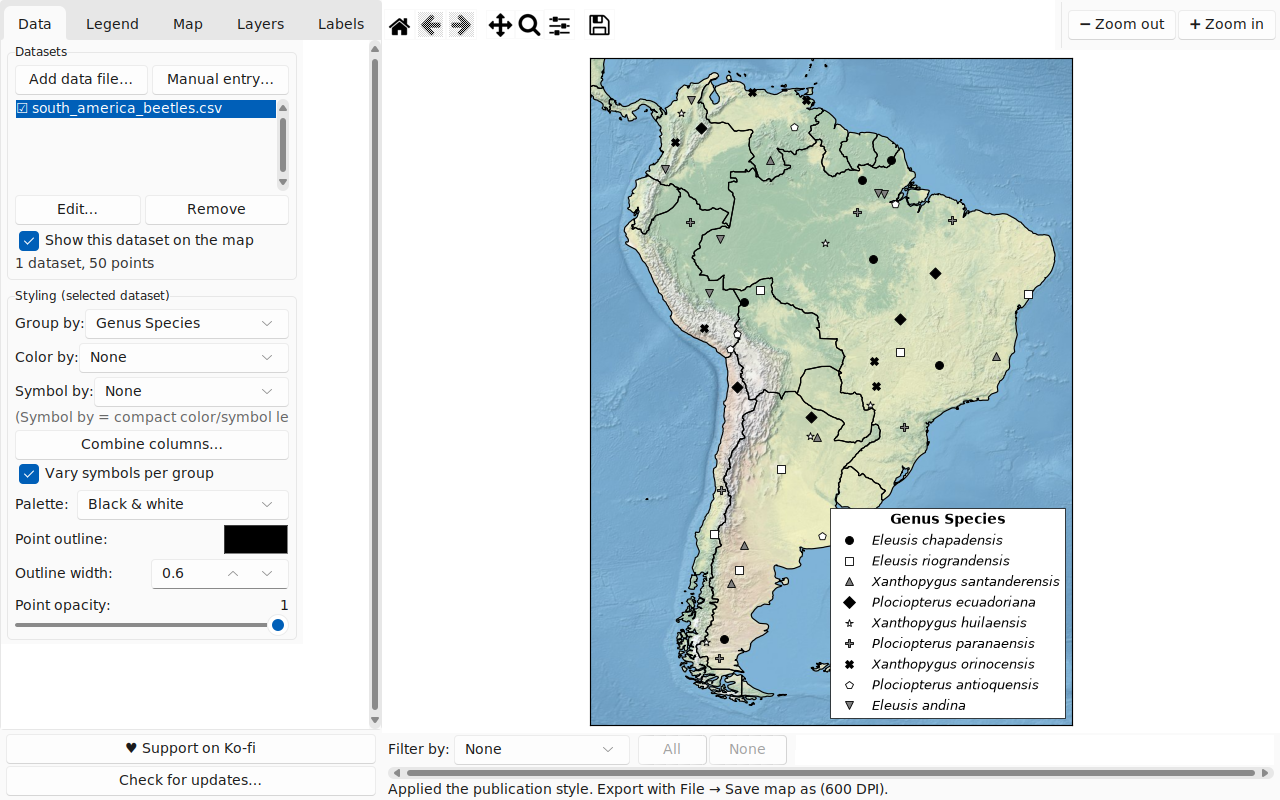
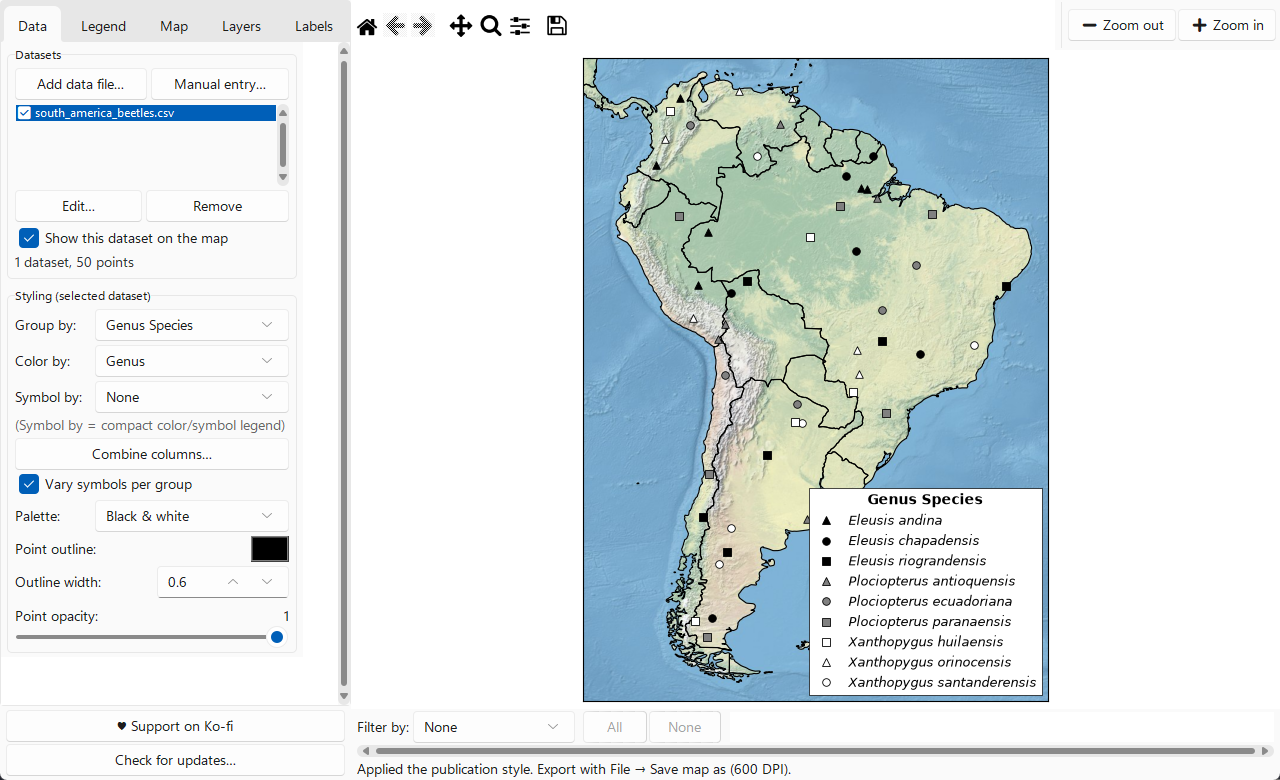
Sort the publication legend and shade it by genus
Three shades cannot tell nine species apart on their own, and with the
legend in data order the shapes came out in no pattern. The publication
style now sorts the legend A-Z and, when a dataset has no Color by, shades
it by the name column its group-by column is built on (Genus for "Genus
Species"). Each genus becomes a block of rows in one shade with its shapes
restarting, which is what a journal legend reads best as.

A manual legend order and a Color by the user already chose are kept. The
column finding and the settings live in layout.py so they are testable
without Tk. The README publication images are regenerated to match.

diff --git a/tests/test_layout.py b/tests/test_layout.py
@@ -6,8 +6,10 @@ from __future__ import annotations
 import json
 
 from pymappr import projects
-from pymappr.data_loader import build_manual_dataset, load_csv
+from pymappr.data_loader import (PointDataset, build_manual_dataset,
+                                 combine_name_columns, load_csv)
 from pymappr.layout import (column_key, editor_rows, layout_points,
+                            organise_publication_legend, parent_name_column,
                             with_default_title)
 from pymappr.legend import LegendOptions
 from pymappr.projects import DatasetEntry
@@ -148,3 +150,95 @@ def test_column_key_maps_labels_to_frame_columns():
     assert column_key(entry, "Species") == "name2"
     assert column_key(entry, "None") is None
     assert column_key(entry, "") is None
+
+
+def combined_beetles(**kwargs) -> DatasetEntry:
+    """The beetles with a "Genus Species" column, grouped by it."""
+    entry = beetles()
+    entry.dataset, label = combine_name_columns(entry.dataset,
+                                                ["Genus", "Species"])
+    entry.group_by = label
+    for name, value in kwargs.items():
+        setattr(entry, name, value)
+    return entry
+
+
+def test_the_parent_column_of_a_combined_name_is_its_first_part():
+    entry = combined_beetles()
+    assert parent_name_column(entry.dataset, "Genus Species") == "Genus"
+
+
+def test_a_column_that_does_not_prefix_the_names_is_not_a_parent():
+    # Species has more values than Genus and never leads the full name.
+    entry = combined_beetles()
+    assert parent_name_column(entry.dataset, "Species") == ""
+
+
+def test_a_plain_column_has_no_parent():
+    entry = beetles()
+    assert parent_name_column(entry.dataset, "Genus") == ""
+    assert parent_name_column(entry.dataset, "") == ""
+    assert parent_name_column(entry.dataset, "None") == ""
+    assert parent_name_column(entry.dataset, "No such column") == ""
+
+
+def test_a_blank_part_disqualifies_the_column():
+    # A blank genus is a prefix of everything, which says nothing about a
+    # parent, so a column with a gap is not offered.
+    entry = combined_beetles()
+    frame = entry.dataset.frame.copy()
+    frame.loc[frame.index[0], "name1"] = ""
+    entry.dataset = PointDataset(frame=frame, source_path="")
+    entry.dataset.frame.attrs.update(name_labels=["Genus", "Species",
+                                                  "Genus Species"])
+    assert parent_name_column(entry.dataset, "Genus Species") == ""
+
+
+def test_a_parent_must_have_fewer_values_than_the_group_column():
+    # Genus prefixes "Genus Species", but a column identical to the group
+    # column does not: it has just as many values.
+    entry = combined_beetles()
+    frame = entry.dataset.frame.copy()
+    frame["name4"] = frame["name3"]
+    frame.attrs["name_labels"] = ["Genus", "Species", "Genus Species", "Copy"]
+    dataset = PointDataset(frame=frame, source_path="")
+    assert parent_name_column(dataset, "Genus Species") == "Genus"
+
+
+def test_publication_legend_sorts_and_shades_by_genus():
+    entry = combined_beetles()
+    options = organise_publication_legend([entry], LegendOptions())
+    assert entry.color_by == "Genus"
+    assert options.order == "az"
+
+
+def test_publication_legend_keeps_a_manual_order_and_a_chosen_colour():
+    entry = combined_beetles(color_by="Species")
+    options = organise_publication_legend(
+        [entry], LegendOptions(order="manual"))
+    assert entry.color_by == "Species"
+    assert options.order == "manual"
+
+
+def test_publication_legend_leaves_datasets_with_no_parent_alone():
+    entry = beetles()
+    options = organise_publication_legend([entry], LegendOptions())
+    assert entry.color_by == ""
+    assert options.order == "az"
+
+
+def test_publication_legend_blocks_the_rows_by_genus():
+    # The two settings together: A-Z rows form one block per genus, each
+    # with its own shade and the shapes restarting.
+    entry = combined_beetles()
+    options = organise_publication_legend([entry], LegendOptions())
+    layout = layout_points([entry], options, ["#000000", "#808080", "#ffffff"])
+    assert layout.row_order == sorted(layout.row_order)
+    by_genus: dict[str, list] = {}
+    for label, style, _rows in layout.groups:
+        by_genus.setdefault(label.split()[0], []).append(style)
+    assert len(by_genus) == 3
+    for styles in by_genus.values():
+        assert len({style.color for style in styles}) == 1
+        assert styles[0].marker == "Circle"
+    assert len({styles[0].color for styles in by_genus.values()}) == 3

diff --git a/pymappr/layout.py b/pymappr/layout.py
@@ -20,7 +20,8 @@ from pymappr.styles import (PointStyle, apply_override, attribute_style_maps,
                             resolve_nesting, row_key, style_by_attributes)
 
 __all__ = ["DatasetLayout", "MapLayout", "column_key", "group_styles",
-           "layout_points", "with_default_title", "editor_rows"]
+           "layout_points", "with_default_title", "editor_rows",
+           "parent_name_column", "organise_publication_legend"]
 
 
 @dataclass
@@ -63,6 +64,63 @@ def column_key(entry: DatasetEntry, label: str) -> str | None:
         return None
     keys = dict(zip(entry.dataset.name_labels, entry.dataset.name_keys))
     return keys.get(label)
+
+
+def parent_name_column(dataset, group_by: str) -> str:
+    """The label of the name column that *group_by* is built on, or "".
+
+    Genus is the parent of a combined "Genus Species" column: it has fewer
+    distinct values, and each row's Genus is the start of that row's full
+    name. Colouring the full-name groups by their parent puts the species of
+    one genus in one shade and lets their shapes restart inside it. The
+    species epithet is not a parent - it does not lead the name - and a
+    column with a blank cell is not either, since a blank prefixes every
+    name. With several candidates the one closest to *group_by* (the most
+    distinct values) wins. Returns "" when nothing qualifies.
+    """
+    keys = dict(zip(dataset.name_labels, dataset.name_keys))
+    group_key = keys.get(group_by)
+    if group_key is None:
+        return ""
+    frame = dataset.frame
+
+    def text(key):
+        return frame[key].fillna("").astype(str).str.strip()
+
+    names = text(group_key)
+    best, best_count = "", 0
+    for label, key in keys.items():
+        if key == group_key:
+            continue
+        parts = text(key)
+        count = parts.nunique()
+        if (count >= names.nunique() or count <= best_count
+                or (parts == "").any()
+                or not all(name.startswith(part)
+                           for name, part in zip(names, parts))):
+            continue
+        best, best_count = label, count
+    return best
+
+
+def organise_publication_legend(entries,
+                                options: LegendOptions) -> LegendOptions:
+    """Arrange the legend for a journal figure: species rows sorted A-Z, each
+    genus a block in its own shade.
+
+    Three shades alone cannot separate every species, but shade by genus plus
+    a shape that restarts within each genus can, and sorting keeps a genus's
+    rows together. A dataset already coloured by a column keeps that choice,
+    and a manual order is the user's own arrangement, so neither is touched.
+    Sets ``color_by`` on the entries and returns the adjusted *options*.
+    """
+    for entry in entries:
+        if not entry.color_by:
+            entry.color_by = parent_name_column(entry.dataset,
+                                                entry.group_by)
+    if options.order == "manual":
+        return options
+    return dataclasses.replace(options, order="az")
 
 
 def _visible(entries) -> list[DatasetEntry]:

diff --git a/pymappr/app.py b/pymappr/app.py
@@ -29,7 +29,8 @@ from pymappr.decorations import (CompassOptions,  # noqa: E402
                                  ScaleBarOptions)
 from pymappr.layers import LayerStore  # noqa: E402
 from pymappr.layout import (MapLayout, column_key,  # noqa: E402
-                            editor_rows, layout_points, with_default_title)
+                            editor_rows, layout_points,
+                            organise_publication_legend, with_default_title)
 from pymappr.legend import (ENTRY_ORDERS, PUBLICATION_LEGEND,  # noqa: E402
                             LegendOptions)
 from pymappr.projects import PROJECT_EXTENSION, DatasetEntry  # noqa: E402
@@ -1135,19 +1136,24 @@ class PyMapprApp:
     def on_publication_style(self) -> None:
         """Apply several settings at once for a journal figure: black and
         white points with black outlines and varied shapes, a plain boxed
-        legend with italic names, and 600 DPI export. Rows the user styled
-        by hand in the legend editor keep their styling."""
+        legend with italic names sorted A-Z and shaded by genus, and 600 DPI
+        export. Rows the user styled by hand in the legend editor keep their
+        styling, and so do a manual legend order and a chosen Color by."""
         p = self.panel
         p.palette_var.set(BLACK_AND_WHITE_NAME)
         p.set_point_edge(*PUBLICATION_POINT_EDGE)
         p.set_point_alpha(1.0)
-        p.set_legend_options(dataclasses.replace(p.legend_options(),
-                                                 **PUBLICATION_LEGEND))
+        p.set_legend_options(organise_publication_legend(
+            self.entries, dataclasses.replace(p.legend_options(),
+                                              **PUBLICATION_LEGEND)))
         p.dpi_var.set(PUBLICATION_DPI)
         # Three shades alone cannot tell more than three groups apart.
         for entry in self.entries:
             entry.vary_symbols = True
         p.vary_symbols_var.set(True)
+        active = self._active_entry()
+        if active is not None:
+            p.color_by_var.set(active.color_by or "None")
         self.renderer.set_point_alpha(1.0)
         self.renderer.set_point_edge(*p.point_edge())
         self._push_points()

diff --git a/scripts/make_screenshots.py b/scripts/make_screenshots.py
@@ -85,7 +85,8 @@ def readme_scenes(store: LayerStore) -> dict:
 
     # The publication style: Genus and Species combined into one legend
     # line, black & white outlined markers in varied shapes, and a plain
-    # boxed legend with italic names.
+    # boxed legend with italic names. Shading by genus and sorting A-Z make
+    # each genus a block of rows in one shade, its shapes restarting.
     dataset, label = combine_name_columns(beetles.dataset,
                                           ["Genus", "Species"])
     r = new_renderer(store)
@@ -94,8 +95,10 @@ def readme_scenes(store: LayerStore) -> dict:
     r.set_orientation("portrait")
     r.set_point_edge(*PUBLICATION_POINT_EDGE)
     show_points(r, DatasetEntry(dataset=dataset, name=beetles.name,
-                                group_by=label, vary_symbols=True),
-                BLACK_AND_WHITE, location="lower right", **PUBLICATION_LEGEND)
+                                group_by=label, color_by="Genus",
+                                vary_symbols=True),
+                BLACK_AND_WHITE, location="lower right", order="az",
+                **PUBLICATION_LEGEND)
     scenes["publication_style.png"] = (r, True)
 
     # Seabirds grouped by family on Mollweide, with a plain legend.
